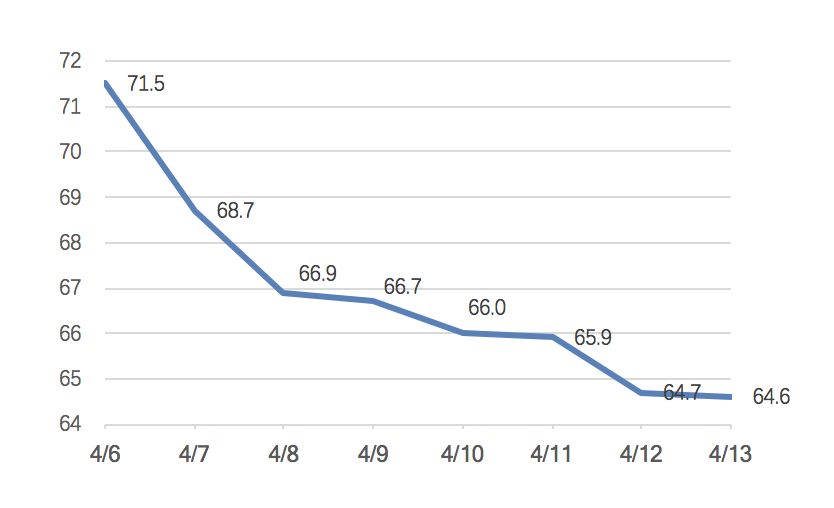
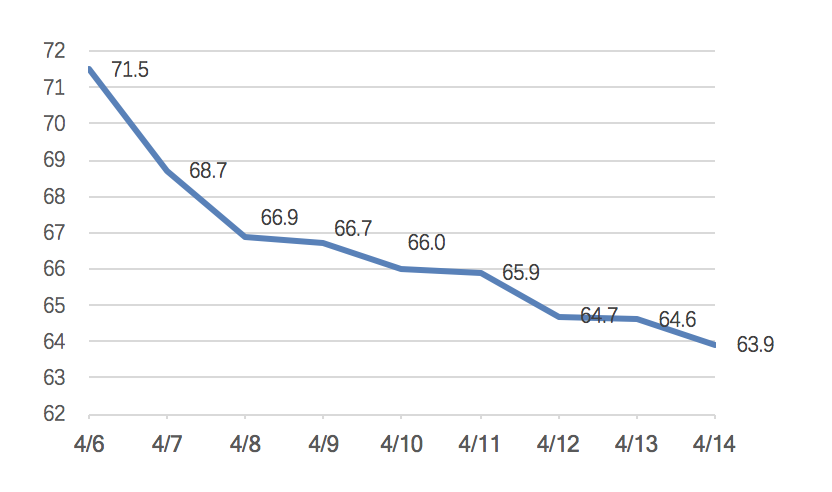
update weight

diff --git a/_posts/2020-04-06-weight.md b/_posts/2020-04-06-weight.md
@@ -81,3 +81,9 @@ toc: true
  ![第七天跑步](https://raw.githubusercontent.com/oplogs/oplogs.github.io/master/images/weight/04-13-run.png)
 ![第七天体重](https://raw.githubusercontent.com/oplogs/oplogs.github.io/master/images/weight/04-13-weight.png)
 
+## 04-14-63.9kg-0.7kg
+8:30分    
+今天是第八条，昨晚睡前做了2组，每组30个俯卧撑，可能是做得有点晚，所以昨晚没睡好，而且落枕了，现在杨絮7点半左右就开始飘了，所以只能起早点，定了个6点30的闹铃，简单洗漱下，6点55开跑，可能昨天还是进食少的原因，提腿真心累，不过还好，5km坚持跑下来了，跑完感觉精疲力尽，就没进行后面的加速跑！
+继续努力，加油加油！！
+ ![第八天跑步](https://raw.githubusercontent.com/oplogs/oplogs.github.io/master/images/weight/04-14-run.png)
+![第八天体重](https://raw.githubusercontent.com/oplogs/oplogs.github.io/master/images/weight/04-14-weight.png)
